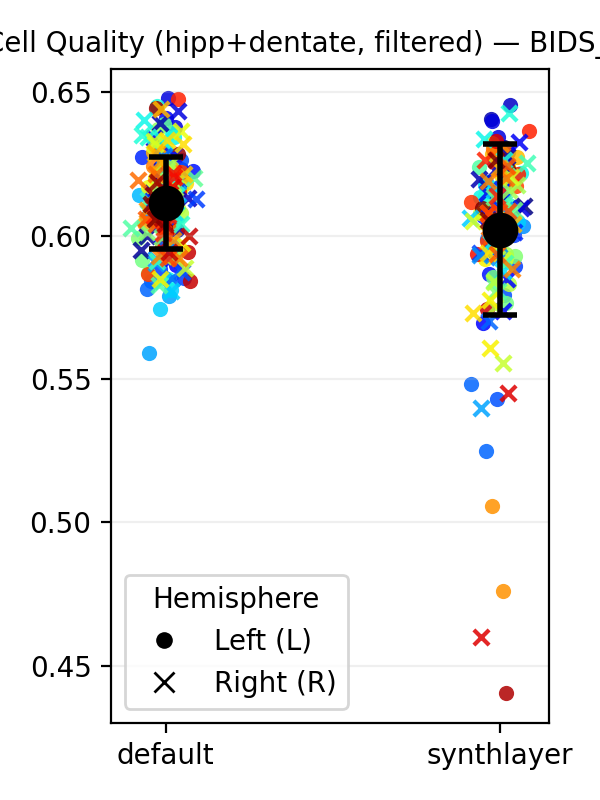
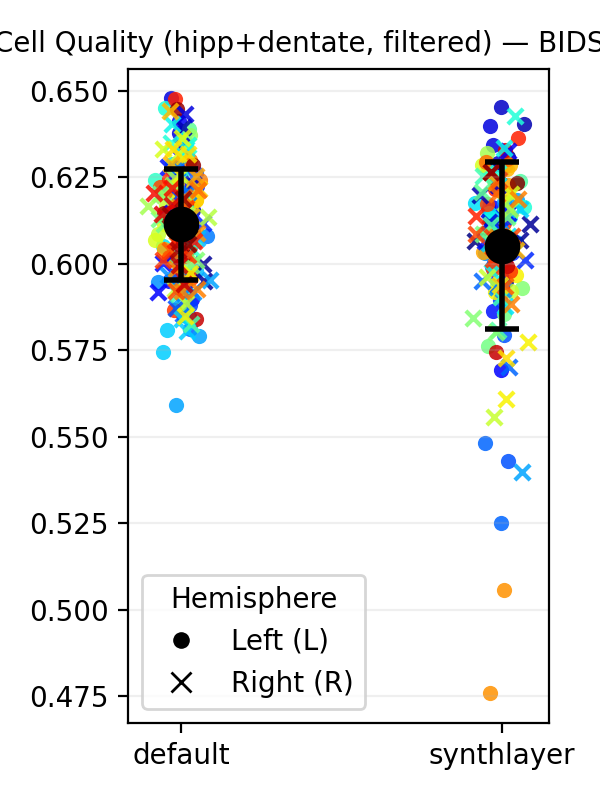
stricter thresholds

diff --git a/v1-v2_comp/synth-comparison.py b/v1-v2_comp/synth-comparison.py
@@ -35,8 +35,8 @@ HEMI_MARK = {"L": "o", "R": "x"}
 RNG = np.random.default_rng(42)
 
 # Filtering
-CONSISTENCY_THRESHOLD = 0.8  # exclude subject/hemi/version if mean consistency < threshold
-IDENTIFIABILITY_THRESHOLD = 0.5  
+CONSISTENCY_THRESHOLD = 0.9  # exclude subject/hemi/version if min consistency < threshold
+IDENTIFIABILITY_THRESHOLD = 0.3 
 
 # ========================
 # Logging
